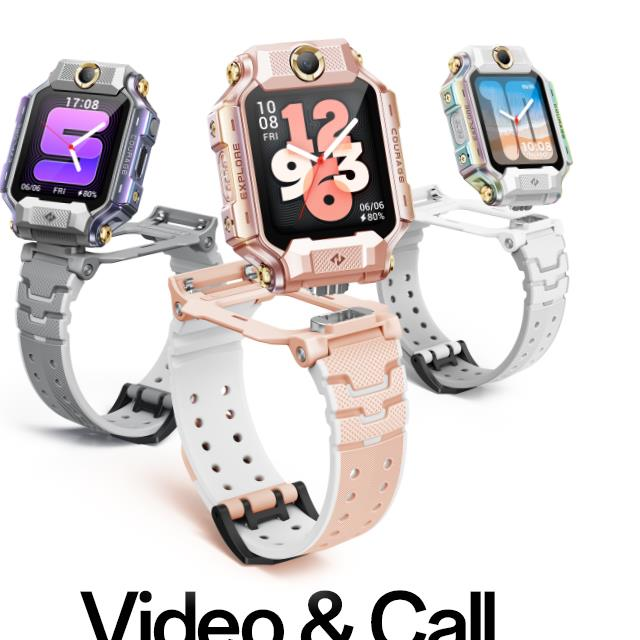
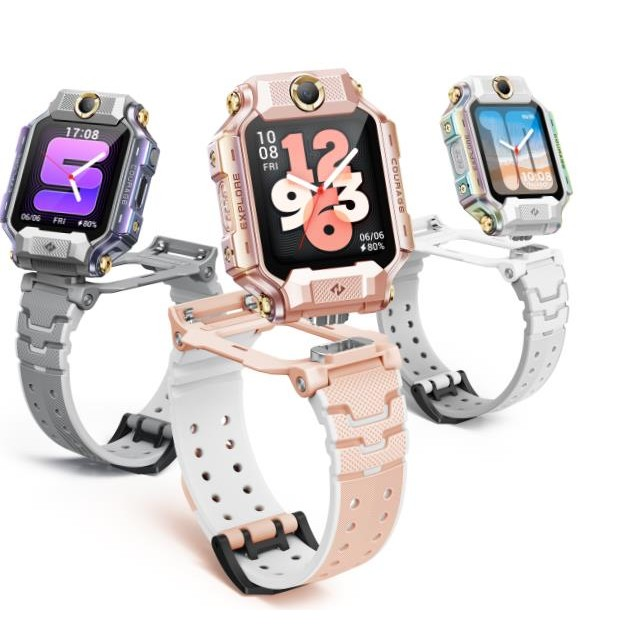
fix(kidswat): gradient headings, labelled accessory placeholders, imoo caption crop
- h1/h2 use the playful cyan/amber/pink/purple gradient; Fredoka kept
- accessories with no sourced photo (bumper, screen protector, charging cable,
  battery bank, guarantee, care plan) use a labelled "Photo pending" placeholder
- Spare Kid Sport Loop uses the sourced Apple Sport Loop image
- imoo X10 image cropped to the product panel, caption removed, kept 640x640

diff --git a/shared/catalogue.ts b/shared/catalogue.ts
@@ -219,7 +219,7 @@ const ACCESSORY_DEFS: AccessoryDef[] = [
     planType: "accessory",
     description:
       "Two replacement velcro sport loops sized for a small wrist. Washable, and the easy swap means a wet or lost band never stops the watch working.",
-    image: "/images/apple_watch_activity.png",
+    image: "/images/band-apple-sport-loop.jpg",
   },
   {
     sku: "AKW-BUMPER-KID",
@@ -228,7 +228,7 @@ const ACCESSORY_DEFS: AccessoryDef[] = [
     planType: "accessory",
     description:
       "Raised-edge silicone bumper sized for the 40mm case. Takes the edge off drops onto concrete, which is where most kids' watches actually break.",
-    image: "/images/apple_watch_safety.png",
+    image: "/images/accessory-placeholder.jpg",
   },
   {
     sku: "AKW-SCREEN-3PK",
@@ -237,7 +237,7 @@ const ACCESSORY_DEFS: AccessoryDef[] = [
     planType: "accessory",
     description:
       "Three tempered glass protectors with an alignment tray. A cracked screen is the most common reason a kids' watch is returned, and this prevents most of them.",
-    image: "/images/apple_watch_gps_feature.png",
+    image: "/images/accessory-placeholder.jpg",
   },
   {
     sku: "AKW-CHARGE-1",
@@ -246,7 +246,7 @@ const ACCESSORY_DEFS: AccessoryDef[] = [
     planType: "accessory",
     description:
       "Replacement magnetic charging cable. Keep one at home and one in the school bag so a forgotten cable never becomes a dead watch by lunchtime.",
-    image: "/images/apple_watch_cellular.png",
+    image: "/images/accessory-placeholder.jpg",
   },
   {
     sku: "AKW-BATTERY-BANK-01",
@@ -255,7 +255,7 @@ const ACCESSORY_DEFS: AccessoryDef[] = [
     planType: "accessory",
     description:
       "Portable battery bank for Apple Watch charging away from home. Availability and specification to be verified with a sourced listing before purchase — no stock claim made here.",
-    image: "/images/apple_watch_cellular.png",
+    image: "/images/accessory-placeholder.jpg",
   },
   {
     sku: "AKW-GUARD-12",
@@ -264,7 +264,7 @@ const ACCESSORY_DEFS: AccessoryDef[] = [
     planType: "warranty",
     description:
       "One replacement watch within 12 months for accidental damage in normal use. Excludes cosmetic wear, liquid damage beyond the 50 metre rating, and loss or theft. An unclear guarantee is the top refund driver in this category, so the exclusions are stated here rather than buried.",
-    image: "/images/apple_watch_safety.png",
+    image: "/images/accessory-placeholder.jpg",
   },
   {
     sku: "AKW-CARE-36",
@@ -273,7 +273,7 @@ const ACCESSORY_DEFS: AccessoryDef[] = [
     planType: "warranty",
     description:
       "Three years of accidental damage cover with a 24-month replacement term. Excludes cosmetic wear, liquid damage beyond the 50 metre rating, and loss or theft. Does not cover battery wear below the 85% health floor we guarantee at dispatch.",
-    image: "/images/apple_watch_safety.png",
+    image: "/images/accessory-placeholder.jpg",
   },
 ];
 

diff --git a/client/src/index.css b/client/src/index.css
@@ -178,6 +178,15 @@
     font-family: "Fredoka", "Baloo 2", "Poppins", system-ui, sans-serif;
     letter-spacing: -0.02em;
   }
+
+  h1, h2 {
+    background: linear-gradient(135deg, #06b6d4 0%, #f59e0b 40%, #ec4899 75%, #8b5cf6 100%);
+    -webkit-background-clip: text;
+    background-clip: text;
+    -webkit-text-fill-color: transparent;
+    color: transparent;
+    padding-bottom: 0.08em;
+  }
 }
 
 .playful-heading {
